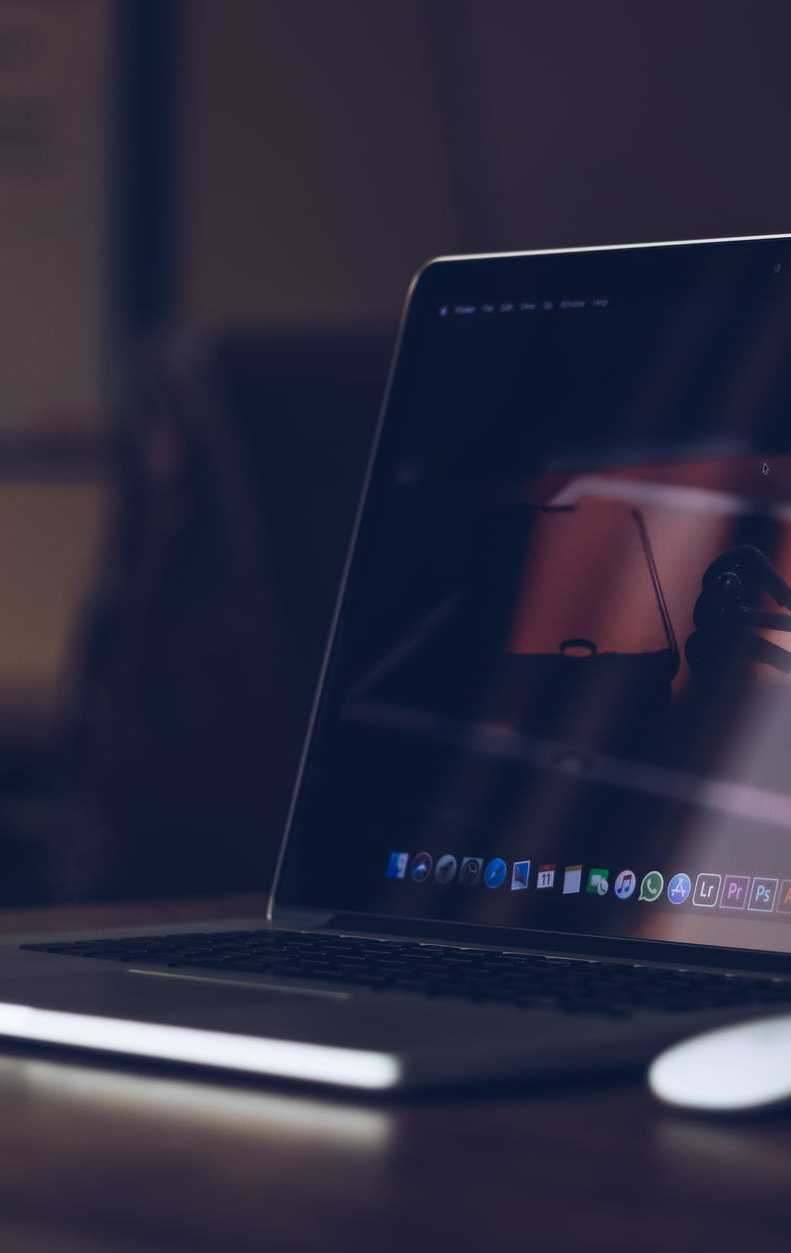
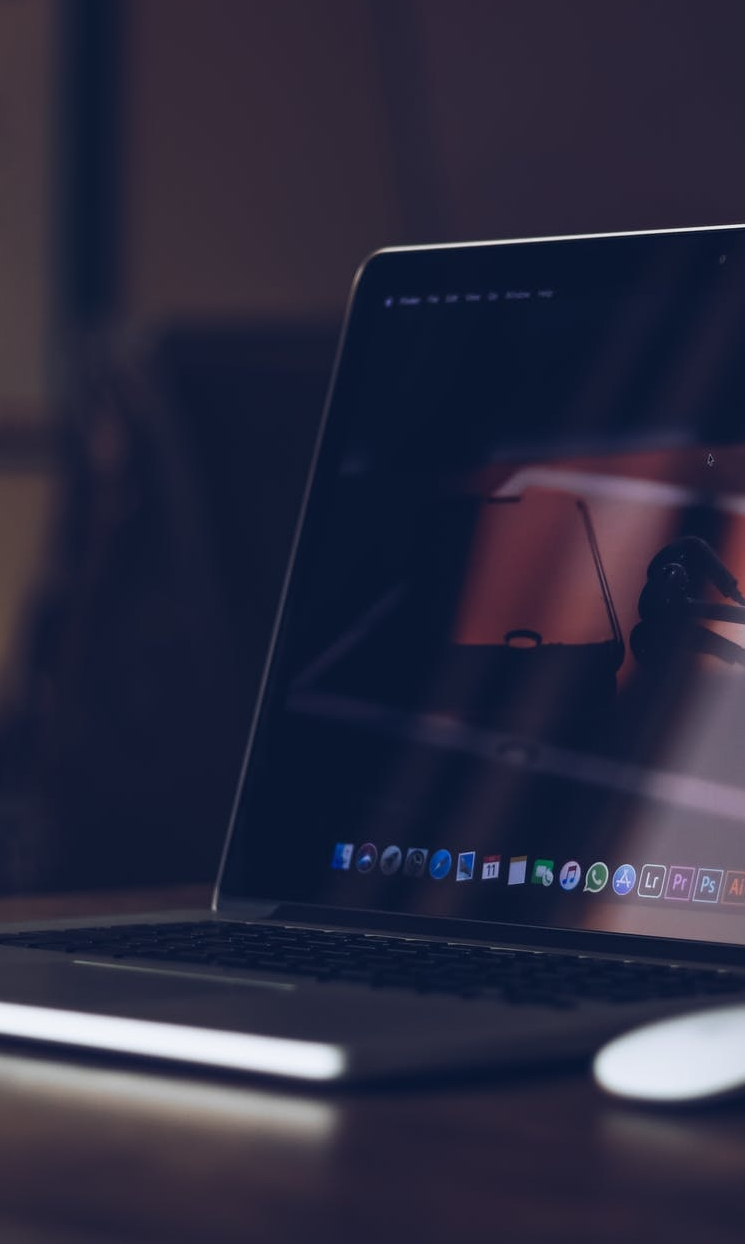
New background images added

diff --git a/src/pages/Home/Home.js b/src/pages/Home/Home.js
@@ -26,19 +26,20 @@ class Home extends Component {
             return (
                 <>
 
-                    <div className="cover-container d-flex w-100 h-100 p-3 mx-auto flex-column">
+                    <div className="cover-container d-flex flex-column p-3 mx-auto w-100 h-100">
 
                         <header className="masthead mb-auto text-center">
                             <div>
                                 <h1 className="masthead-brand text-light">
                                     <a href="/">Aldo Solano</a>
+                                    
                                 </h1>
                             </div>
                         </header>
 
                         <div className="cover text-center">
-                            <h1 className="text-light">Welcome to my online portfolio</h1>
-                            <p className="lead text-light">Transforming your projects from good to great!</p>
+                            <h1 className="welcoming text-light">Welcome to my online portfolio</h1>
+                            <p className="text-muted">Transforming your projects from good to great!</p>
                             <div className="button" id="button-index">
                                 <div id="circle"></div>
                                 <a href="/about">Enter</a>

diff --git a/src/index.css b/src/index.css
@@ -1,6 +1,19 @@
+#root {
+  height: 100%;
+}
+
 html,
 body {
   height: 100%;
+}
+
+.welcoming {
+  font-family: "Dancing Script", cursive;
+  font-size: 50px;
+}
+
+.scriptFont {
+  font-family: "Dancing Script", cursive;
 }
 
 /* body {
@@ -14,9 +27,12 @@ body {
 body {
   font-family: "Ubuntu", sans-serif;
   color: gainsboro;
-  background-image: url("images/bg.jpeg");
+  background-image: url("images/bg.jpg");
   background-color: gray;
   background-blend-mode: multiply;
+  background-size: cover;
+  background-repeat: no-repeat;
+  background-attachment: fixed;
 }
 
 /* ! main container */
